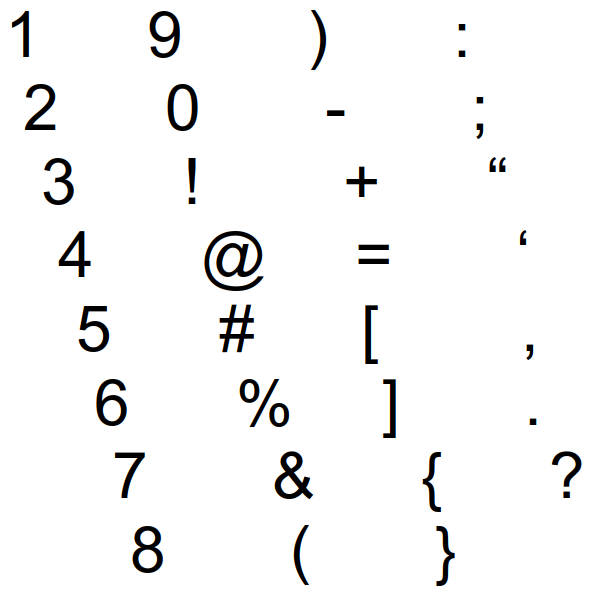
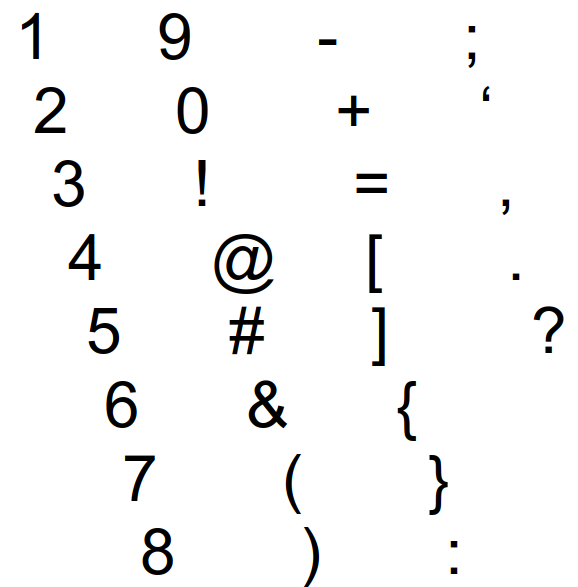
Add files via upload

diff --git a/OCR/prepareDataSet.m b/OCR/prepareDataSet.m
@@ -1,4 +1,4 @@
-function data_set = prepareDataSet(font_name)
+function data_set = prepareDataSet(font_name, side_size)
     
     dir = "DataSets/";
     font_ucase_name  = strcat(dir, "ArialUpperCase.png");
@@ -29,28 +29,25 @@ function data_set = prepareDataSet(font_name)
     l_lcase = changeLabel(l_lcase, 11, 10);
 
     l_others = changeLabel(l_others, 12, 11);
-    l_others = changeLabel(l_others, 15, 14);
-    l_others = changeLabel(l_others, 15, 14);
-    l_others = changeLabel(l_others, 21, 20);
+    l_others = changeLabel(l_others, 20, 19);
+    l_others = changeLabel(l_others, 25, 24);
     l_others = changeLabel(l_others, 26, 25);
-    l_others = changeLabel(l_others, 27, 26);
-    l_others = changeLabel(l_others, 28, 27);
-    l_others = changeLabel(l_others, 32, 31);
+    l_others = changeLabel(l_others, 30, 29);
     
     ucase_char  = regionprops(logical(l_ucase), 'image');
     lcase_char  = regionprops(l_lcase, 'image');
     others_char = regionprops(l_others, 'image');
     
-    im_chars = zeros(25, 25, length(ucase_char) + length(lcase_char) + length(others_char));
+    im_chars = zeros(side_size, side_size, length(ucase_char) + length(lcase_char) + length(others_char));
     
     for i=1:length(ucase_char)
-        im_chars(:,:,i) = imresize(padarray(ucase_char(i).Image, [7, 7]), [25, 25]);
+        im_chars(:,:,i) = resizeToSquare(ucase_char(i).Image, side_size);
     end
     for i=1:length(lcase_char)
-        im_chars(:,:,length(ucase_char) + i) = imresize(padarray(lcase_char(i).Image, [7, 7]), [25, 25]);
+        im_chars(:,:,i + length(ucase_char)) = resizeToSquare(lcase_char(i).Image, side_size);
     end
     for i=1:length(others_char)
-        im_chars(:,:,length(ucase_char) + length(lcase_char) + i) = imresize(padarray(others_char(i).Image, [7, 7]), [25, 25]);
+        im_chars(:,:,i + length(ucase_char) + length(lcase_char)) = resizeToSquare(others_char(i).Image, side_size);         
     end
 
     data_set = im_chars;

diff --git a/OCR/ocr_test.m b/OCR/ocr_test.m
@@ -1,30 +1,34 @@
 clear; clc;
 
-arial_data_set     = prepareDataSet("Arial");
-tnr_data_set       = prepareDataSet("TimesNewRoman");
-helvetica_data_set = prepareDataSet("Helvetica");
+arial_data_set     = prepareDataSet("Arial", 50);
+tnr_data_set       = prepareDataSet("TimesNewRoman", 50);
+helvetica_data_set = prepareDataSet("Helvetica", 50);
 
-% for i=1:size(tnr_data_set, 3)
-%     subplot(10, 9, i);
-%     imshow(tnr_data_set(:,:,i));
+data_set = arial_data_set;
+
+% for i=1:size(data_set, 3)
+%     subplot(9, 9, i);
+%     imshow(data_set(:,:,i));
 % end
 
 % Testing OCR
 test_data = double(imread("ArialTest.png"))/255;
-data_set = arial_data_set;
-% test_data = double(imread("TimesNewRomanTest.png"))/255;
-% data_set = tnr_data_set;
 test_data = ~imbinarize(rgb2gray(test_data));
 
 test_data = bwlabel(test_data);
 test_data = regionprops(logical(test_data), "image");
 
-input = zeros(25, 25, length(test_data));
+input_char = zeros(50, 50, length(test_data));
 
 for i=1:length(test_data)
-    input(:,:,i) = imresize(padarray(test_data(i).Image, [7, 7]), [25, 25]);
+    input_char(:,:,i) = resizeToSquare(test_data(i).Image, 50);
 %     subplot(5, 5, i);
-%     imshow(input(:,:,i));
+%     imshow(input_char(:,:,i));
 end
 
-result = myOcr(data_set, input)
+result_text = "";
+for i=1:size(input_char, 3)
+    result_text = strcat(result_text, myOcr(data_set, input_char(:,:,i)));
+end
+
+    

diff --git a/OCR/myOcr.m b/OCR/myOcr.m
@@ -1,6 +1,5 @@
-function result_text = myOcr(data_set, input_characters)
-    
-    result_text = "";
+function result_character = myOcr(data_set, input_character)
+
     characters_mapping = ["A", "B", "C", "D", "E", "F", "G", "H", "I", "J", "K", ...
                           "L", "M", "N", "O", "P", "Q", "R", "S", "T", "U", "V", ...
                           "W", "X", "Y", "Z", "a", "b", "c", "d", "e", "f", "g", ...
@@ -10,18 +9,13 @@ function result_text = myOcr(data_set, input_characters)
                           "&", "(", ")", "-", "+", "=", "[", "]", "{", "}", ":", ...
                           ";", '"', "'", ",", ".", "?"];
     
-    result = zeros(size(input_characters, 3), size(data_set, 3));
-                  
-    for i=1:size(input_characters, 3)
-        for j=1:size(data_set, 3)
-            result(i,j) = corr2(input_characters(:,:,i), data_set(:,:,j));
-        end
+    result = zeros(1, size(data_set, 3));
+    for i=1:size(data_set, 3)
+        result(1,i) = corr2(input_character(:,:), data_set(:,:,i));
     end
-    
-    for i=1:size(input_characters, 3)
-        [val, idx] = max(result(i,:));
-        result_text = strcat(result_text, characters_mapping(idx));
-    end
+
+    [val, idx] = max(result(1,:));
+    result_character = characters_mapping(idx);  
 end
 
 

diff --git a/OCR/resizeToSquare.m b/OCR/resizeToSquare.m
@@ -1,0 +1,29 @@
+function im_square = resizeToSquare(im, final_size)
+    
+    height  = size(im, 1);
+    width = size(im, 2);
+    
+    if width > height
+        padding_bottom = double(idivide(int16(width - height), int16(2)));
+        padding_top    = padding_bottom;
+        if mod(int16(width - height), 2) %odd
+            padding_top = padding_top + 1;
+        end
+        
+        im_square = padarray(im, padding_top, 0, 'pre');
+        im_square = padarray(im_square, padding_bottom, 0, 'post');
+    elseif height > width
+        padding_right = double(idivide(int16(height - width), int16(2)));
+        padding_left = padding_right;
+        if mod(int16(height - width), 2) %odd
+            padding_left = padding_left + 1;
+        end
+        
+        im_square = padarray(im, [0, padding_left], 0, 'pre');
+        im_square = padarray(im_square, [0, padding_right], 0, 'post');
+    else
+        im_square = im;
+    end
+    
+    im_square = imresize(im_square, [final_size, final_size]);
+end
